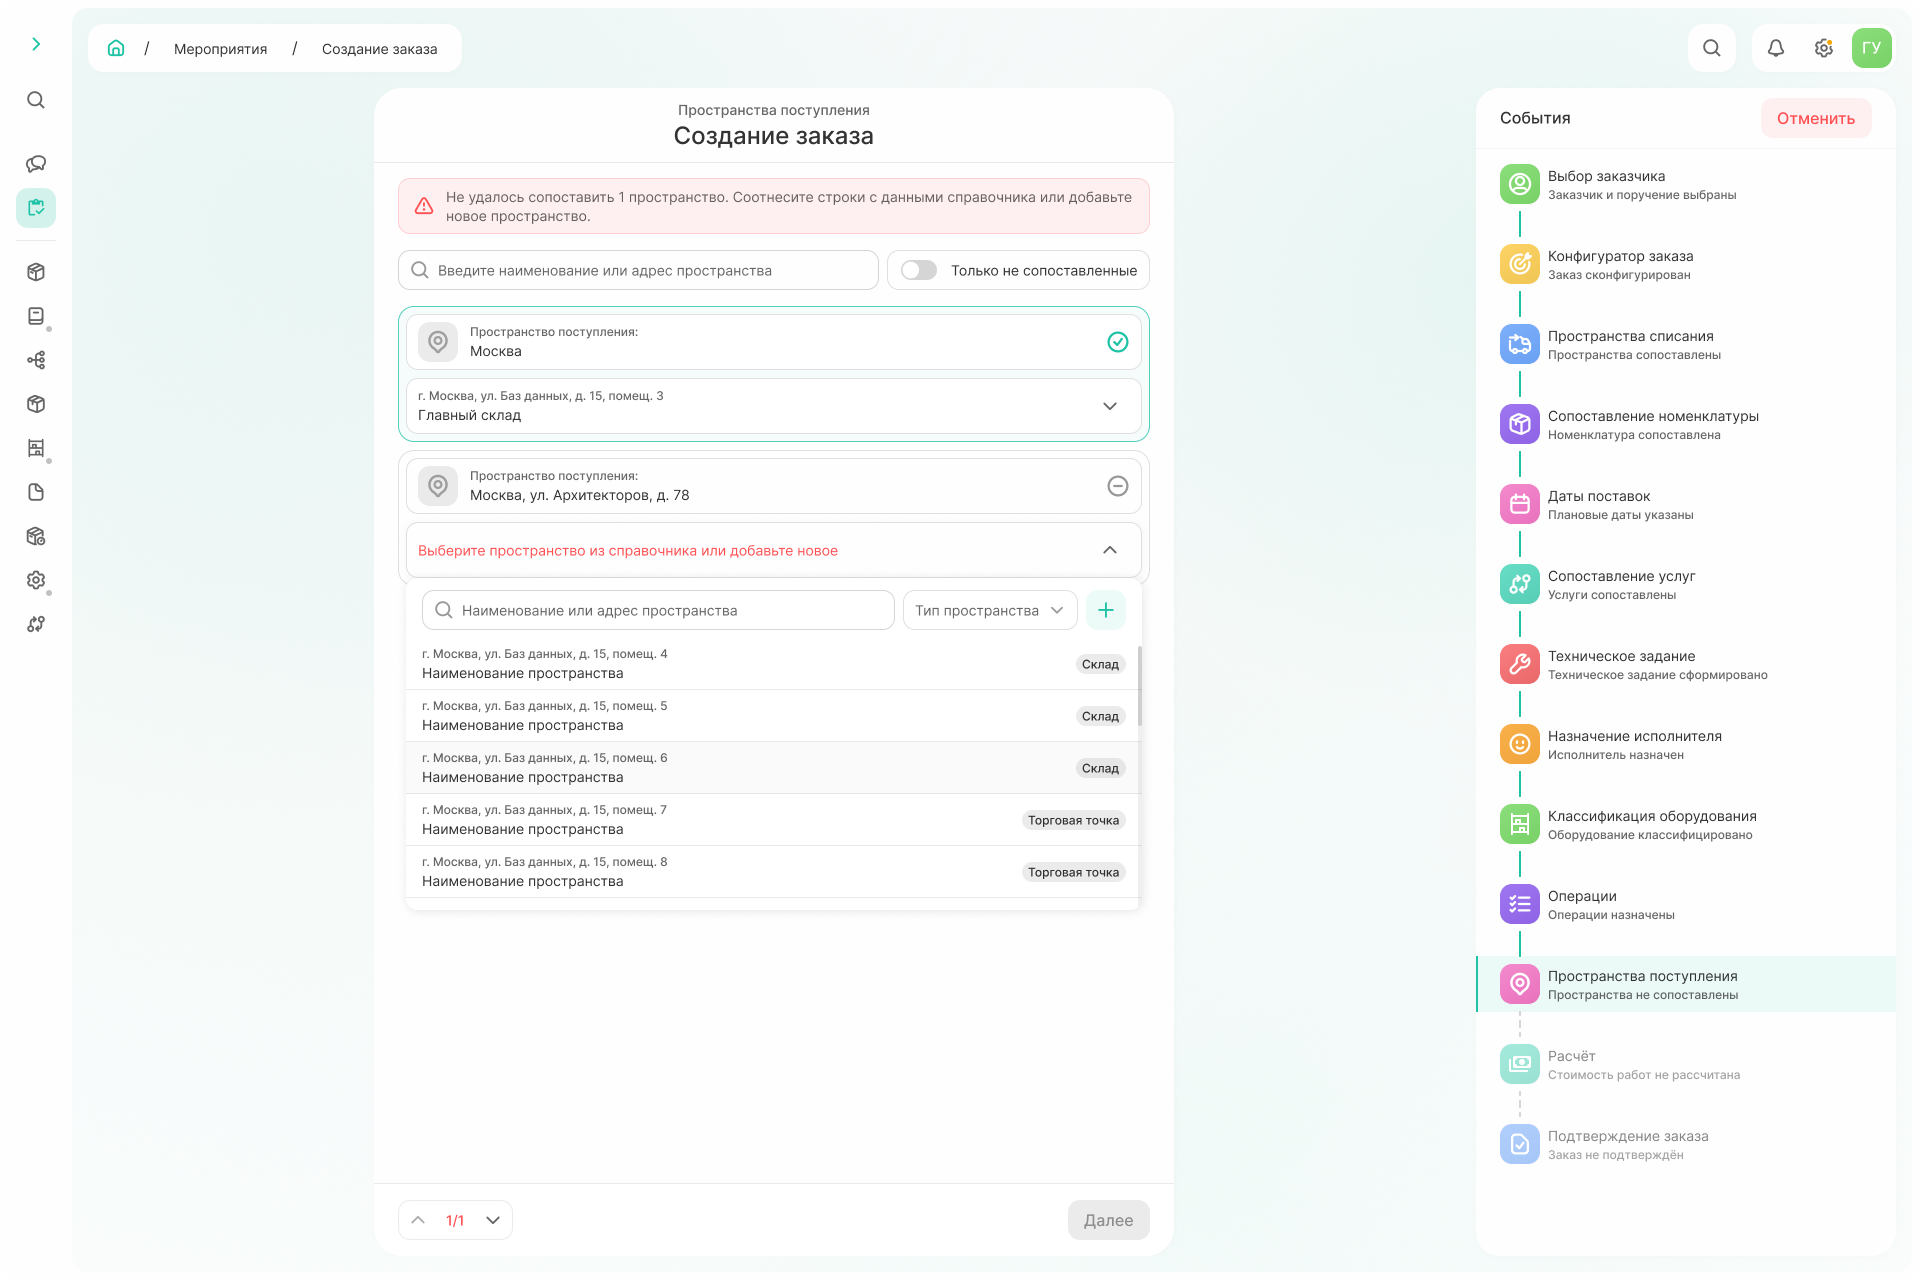
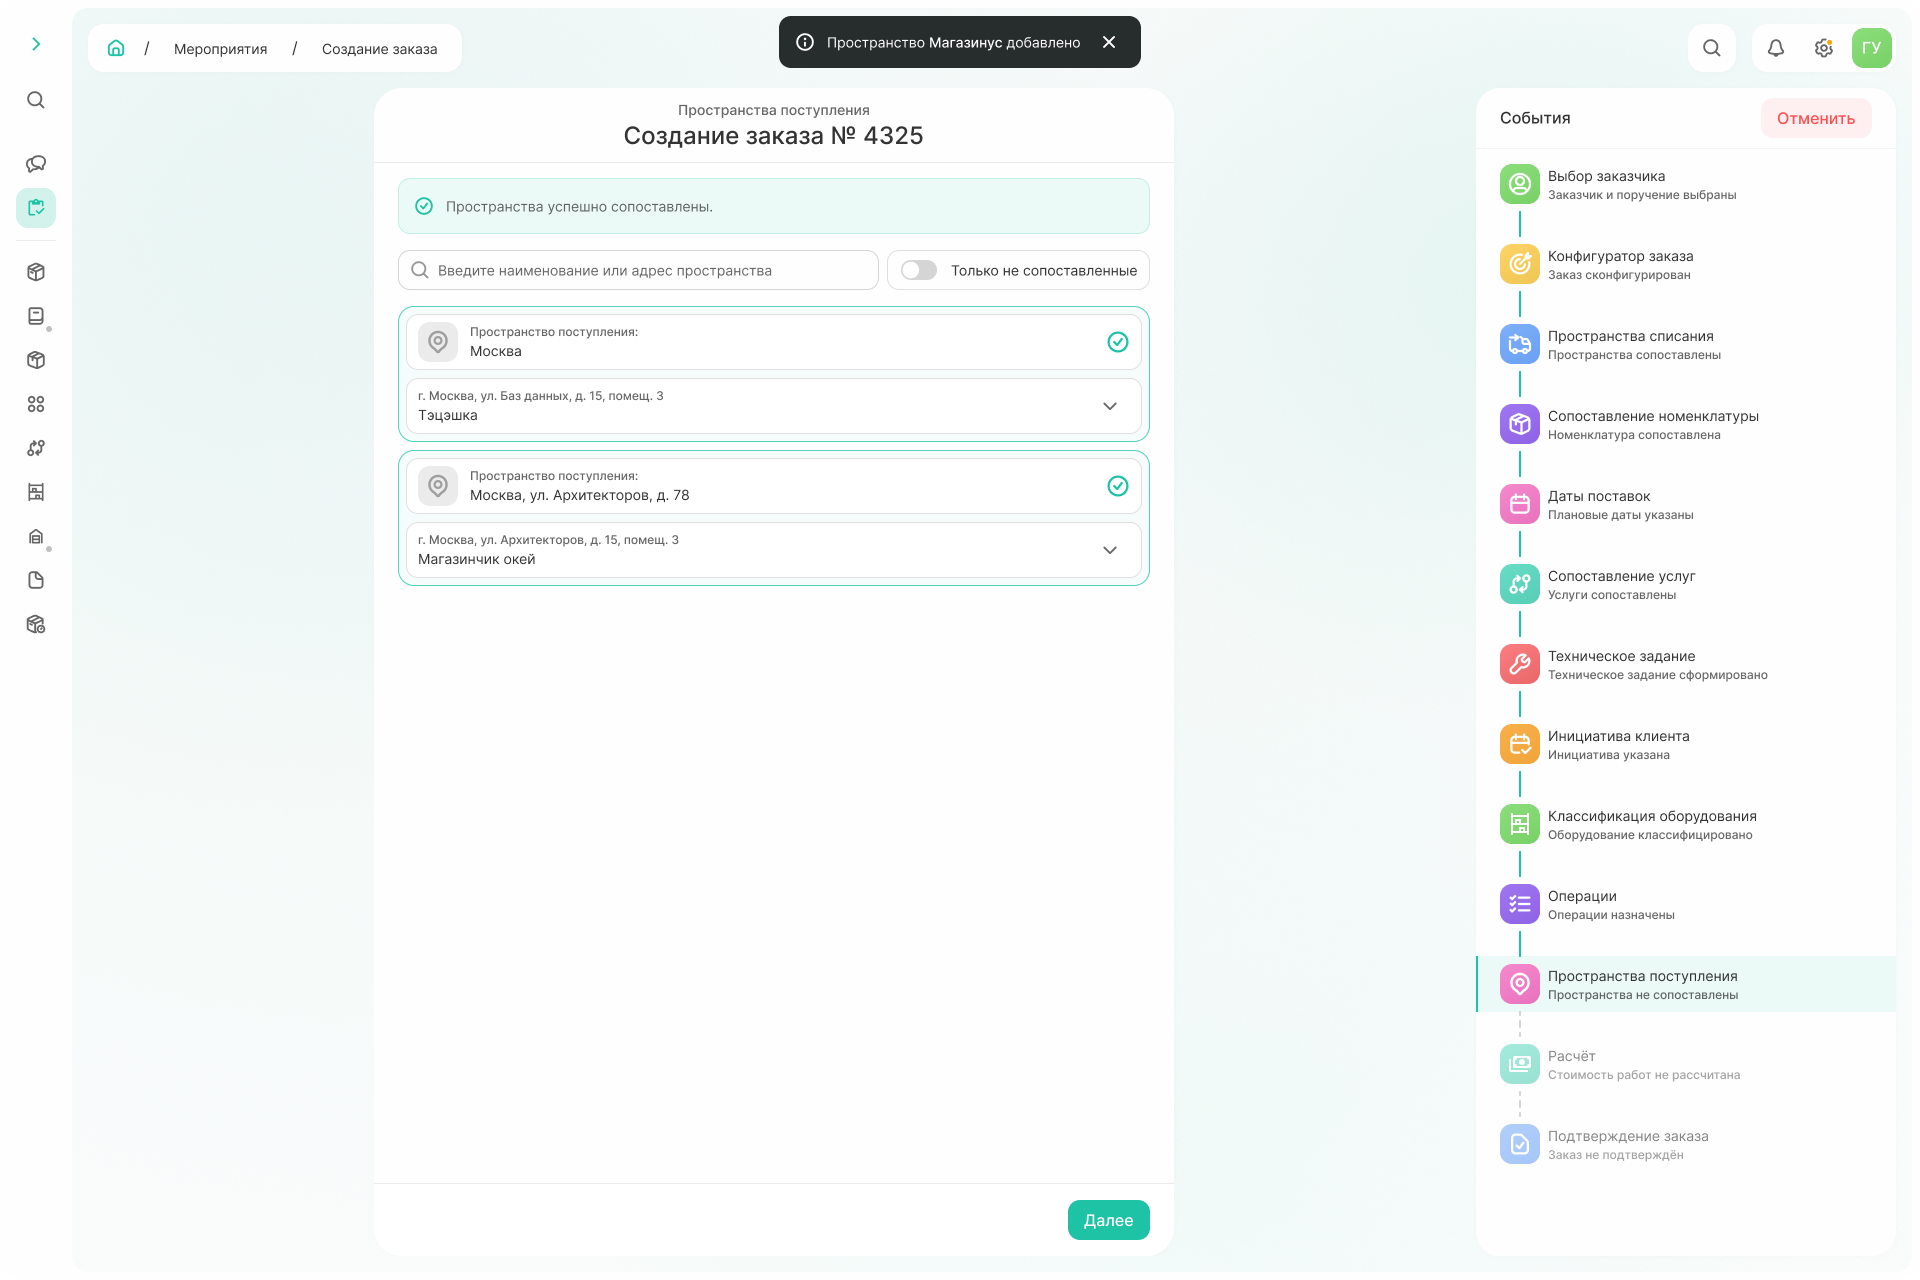
update request and space

diff --git a/docs/ru/how_to_request.md b/docs/ru/how_to_request.md
@@ -46,13 +46,18 @@
 
     - **Пространство списания** 
     Несопоставленное пространство будет окрашено в красный, а вверху страницы появится уведомление.
-    Строка сопоставленного пространства будет выделена зеленым и отмечена галочкой. 
+    Строка сопоставленного пространства будет выделена зеленым и отмечена галочкой, если сопоставился не тот адрес, то его можно поменять.
     
-    Для несопоставленного пространства необходимо подобрать адрес, а для сопоставленного пространства можно поменять: выбрать из выпадающего списка существующий или создать новый по команде «+». 
- 
-    ![_screen_request_spisanie_03](_images/_screen_request_spisanie_03.png){.center width=1200}
+    {% note warning %}
 
-    При создании нового пространства адрес и код пространства заказчика проставляются из загруженного шаблона, оставшиеся поля заполняются вручную.  
+      Пространство считается сопоставленным, если системе удалось подобрать и системное, и пользовательское пространство.
+      *Подробнее о разнице между системным и пользовательском пространствах можно прочитать в разделе [«Пространства»](./how_to_space.md)*
+
+    {% endnote %} 
+
+    Для несопоставленного пространства необходимо создать или подобрать уже существующее системное пространство, затем — пользовательское.
+ 
+    ![_screen_request_spisanie_03](_images/_screen_request_spisanie_03.png){.center width=1200}  
 
     - **Сопоставление номенклатуры**
     По наименованию номенклатуры из справочника в системе подбирается номенклатура, из которой оборудование состоит, и требуемое количество для комплектации одного оборудования. 
@@ -99,7 +104,8 @@
 
   1. Укажите пространства списания и поступления оборудования по команде «+». 
   Сначала выбирается системное пространство из уже внесенных в справочник или создается новое, далее аналогично добавляется пользовательское пространство.
-  *Подробнее работа с пространствами описана в разделе [«Пространства»](./how_to_space.md).*
+  При создании пространства из заявки топология не задается пользователем. Система по умолчанию создает зону погрузки, внести изменения и добавить описание всей иерархии можно позже, найдя созданное пространство в справочнике.
+  *Подробнее о разнице между системным и пользовательском пространствах, а также топологии можно прочитать в разделе [«Пространства»](./how_to_space.md).*
   
   ![_screen_request_space_12](_images/_screen_request_space_12.png){.center width=1200}
 
@@ -173,6 +179,11 @@
 
 Аналогично классификации оборудования, если на шаге 2 «Конфигуратор заказа» был выбран мануальный режим, то соответствие адресов для пространства поступления заполняется вручную.
 При загрузке excel-шаблона адрес сопоставляется автоматически, если сопоставление не удалось — вручную.
+
+Пространство считается сопоставленным если есть системное и зависимое пользовательское пространство и у заказчика, и у исполнителя. В ином случае, пользователь должен либо:
+- создать системное пространство, а после — два пользовательских пространства: одно с информацией от исполнителя и одно с информацией от заказчика;
+- создать пользовательские пространства для исполнителя и заказчика для найденного системного;
+- создать пользовательское пространство для одной из сторон.
 
 ![_screen_address_delievery](_images/_screen_address_delievery.png){.center width=1200}
 

diff --git a/docs/ru/how_to_space.md b/docs/ru/how_to_space.md
@@ -57,8 +57,8 @@
 
 {% note warning %}
 
-**Пользовательские пространства, подчиненные системному, также наследуют созданную топологию.** 
-Например, если для системного пространства была создана топология: этаж состоит из секторов, сектор из рядов, ряд из ярусов, а ярус из мест хранения, то у подчиненных пользоватьельских пространств будет такая же структура.
+Топология задается только из справочника. Если пространства создавались из любой другой части системы, то по умолчанию в топологии будет только зона погрузки. Редактирование топологии возможно по клику верхнеуровнево для системного пространства, подчиненные пользовательские пространства наследуют топологию у системного. 
+*Например, если для системного пространства была создана топология: этаж состоит из секторов, сектор из рядов, ряд из ярусов, а ярус из мест хранения, то у подчиненных пользоватьельских пространств будет такая же структура.*
 
 {% endnote %}
 
